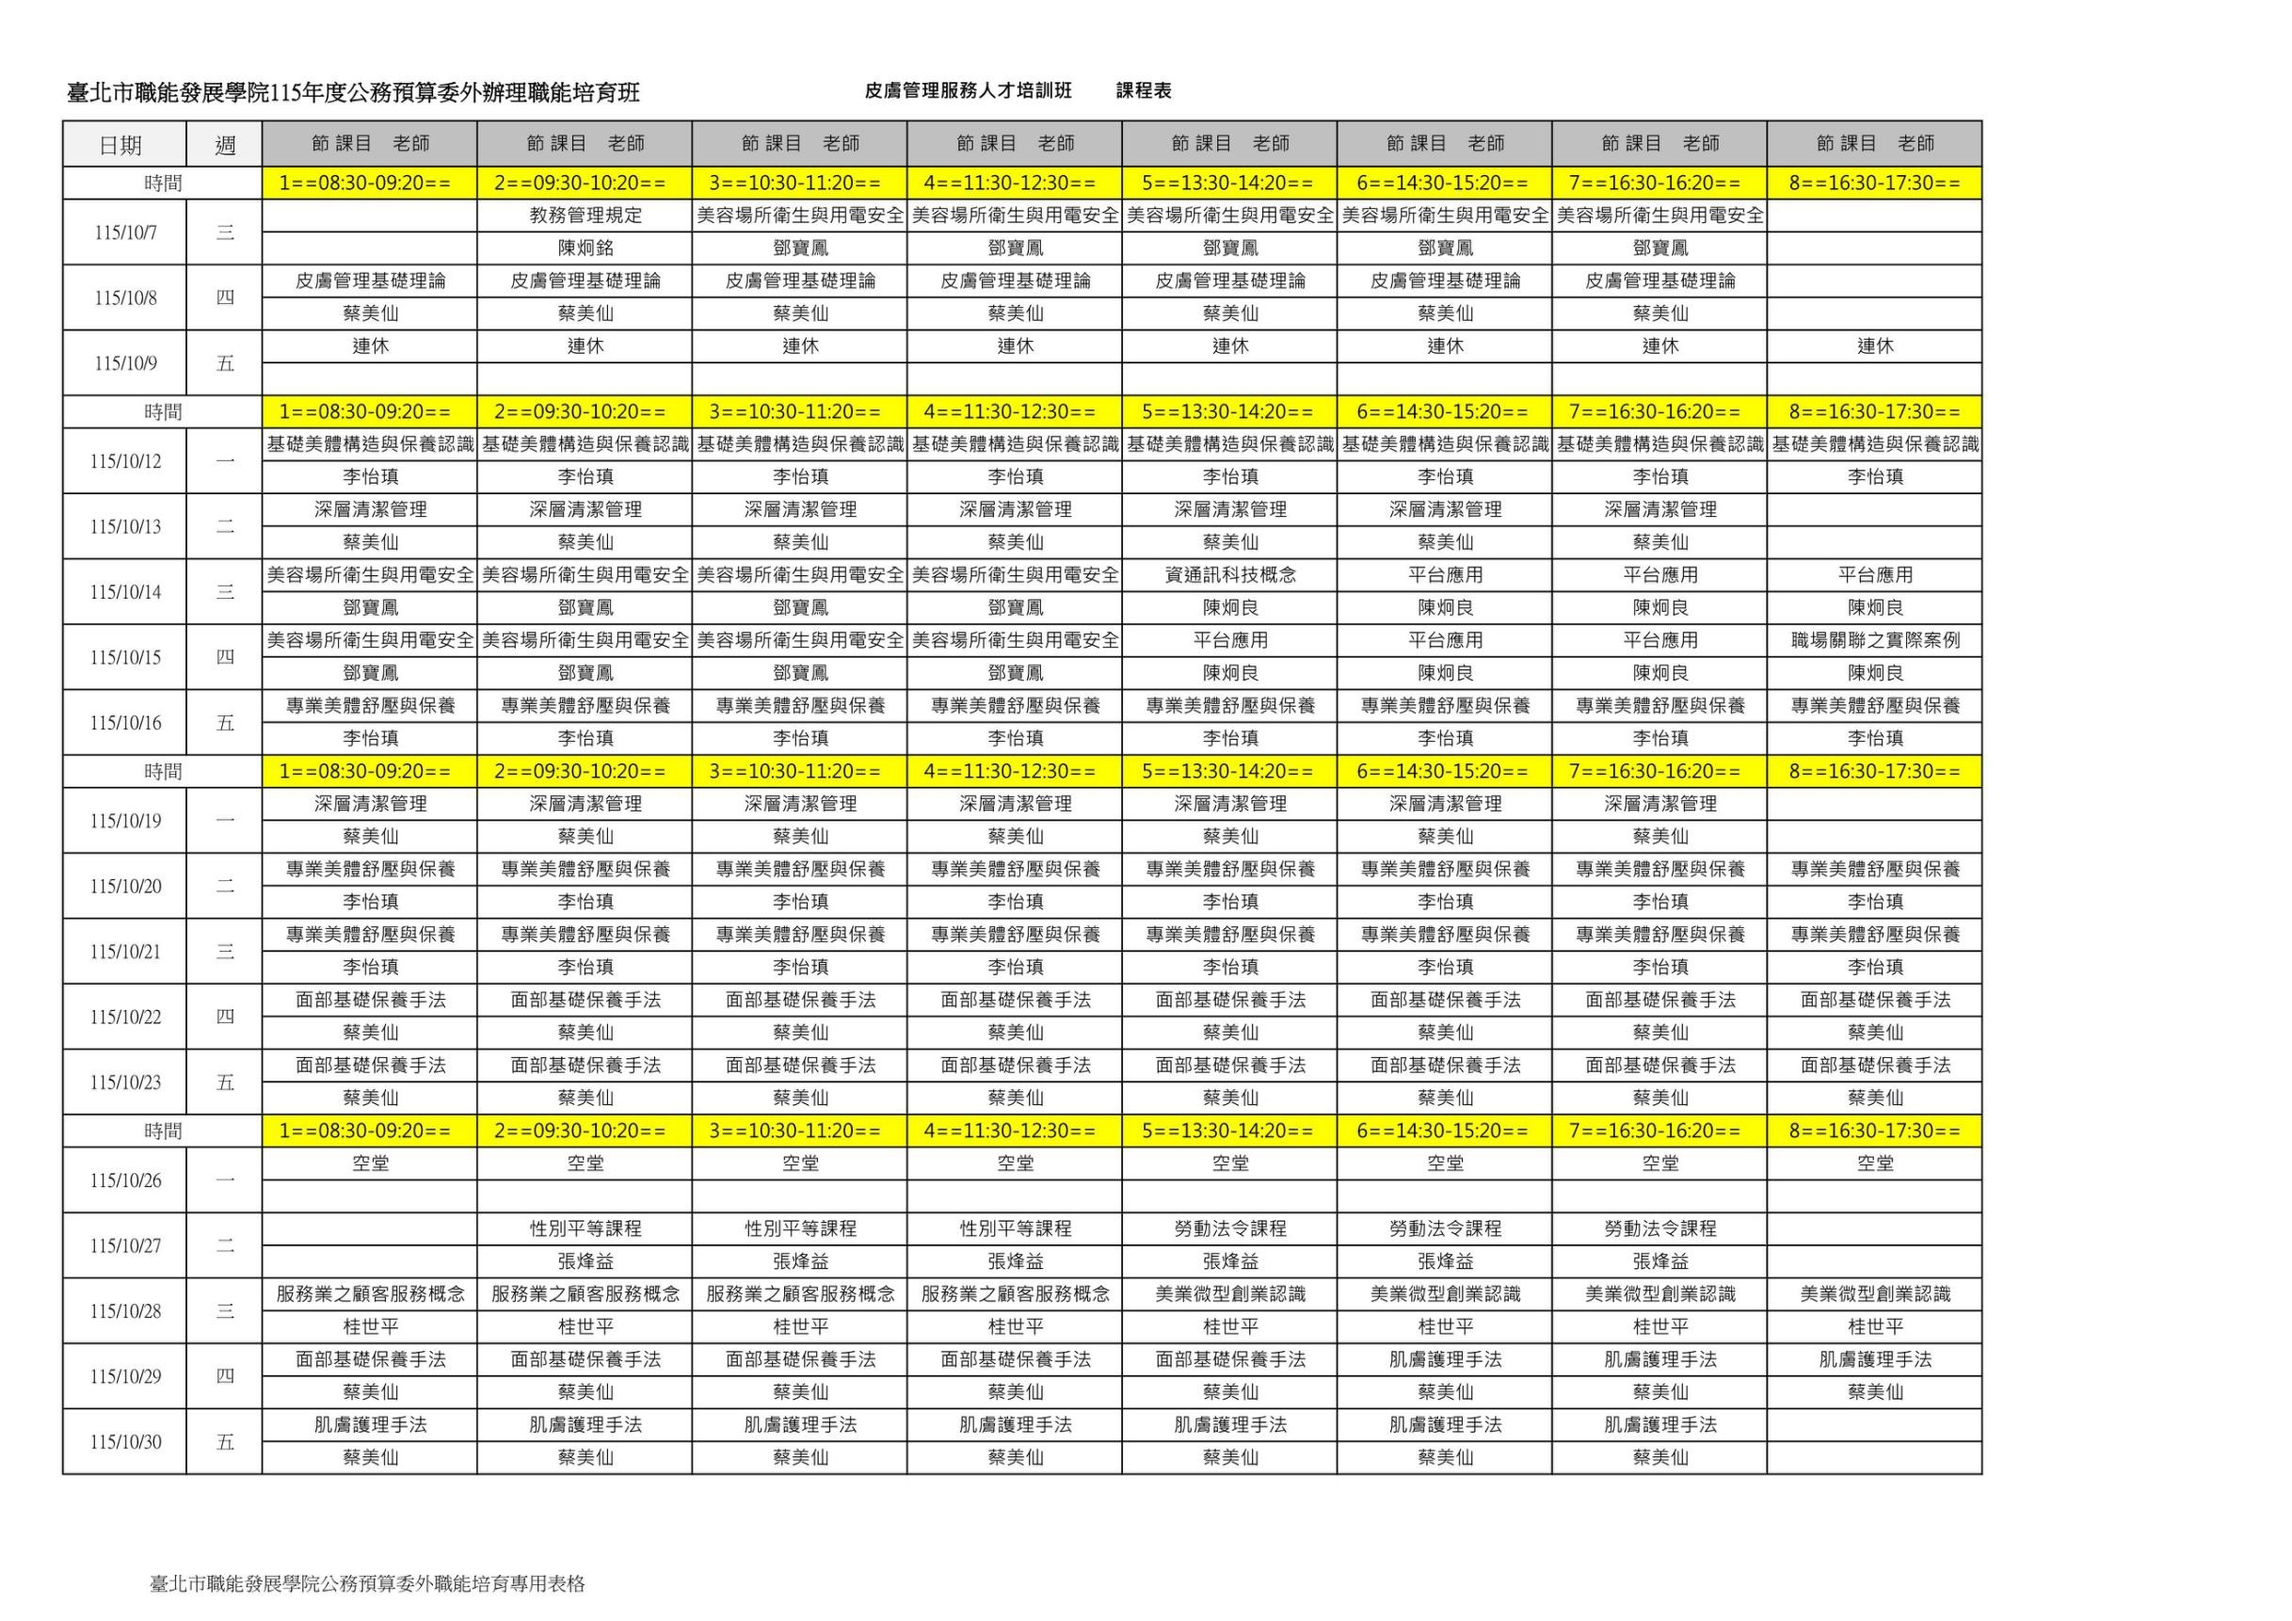
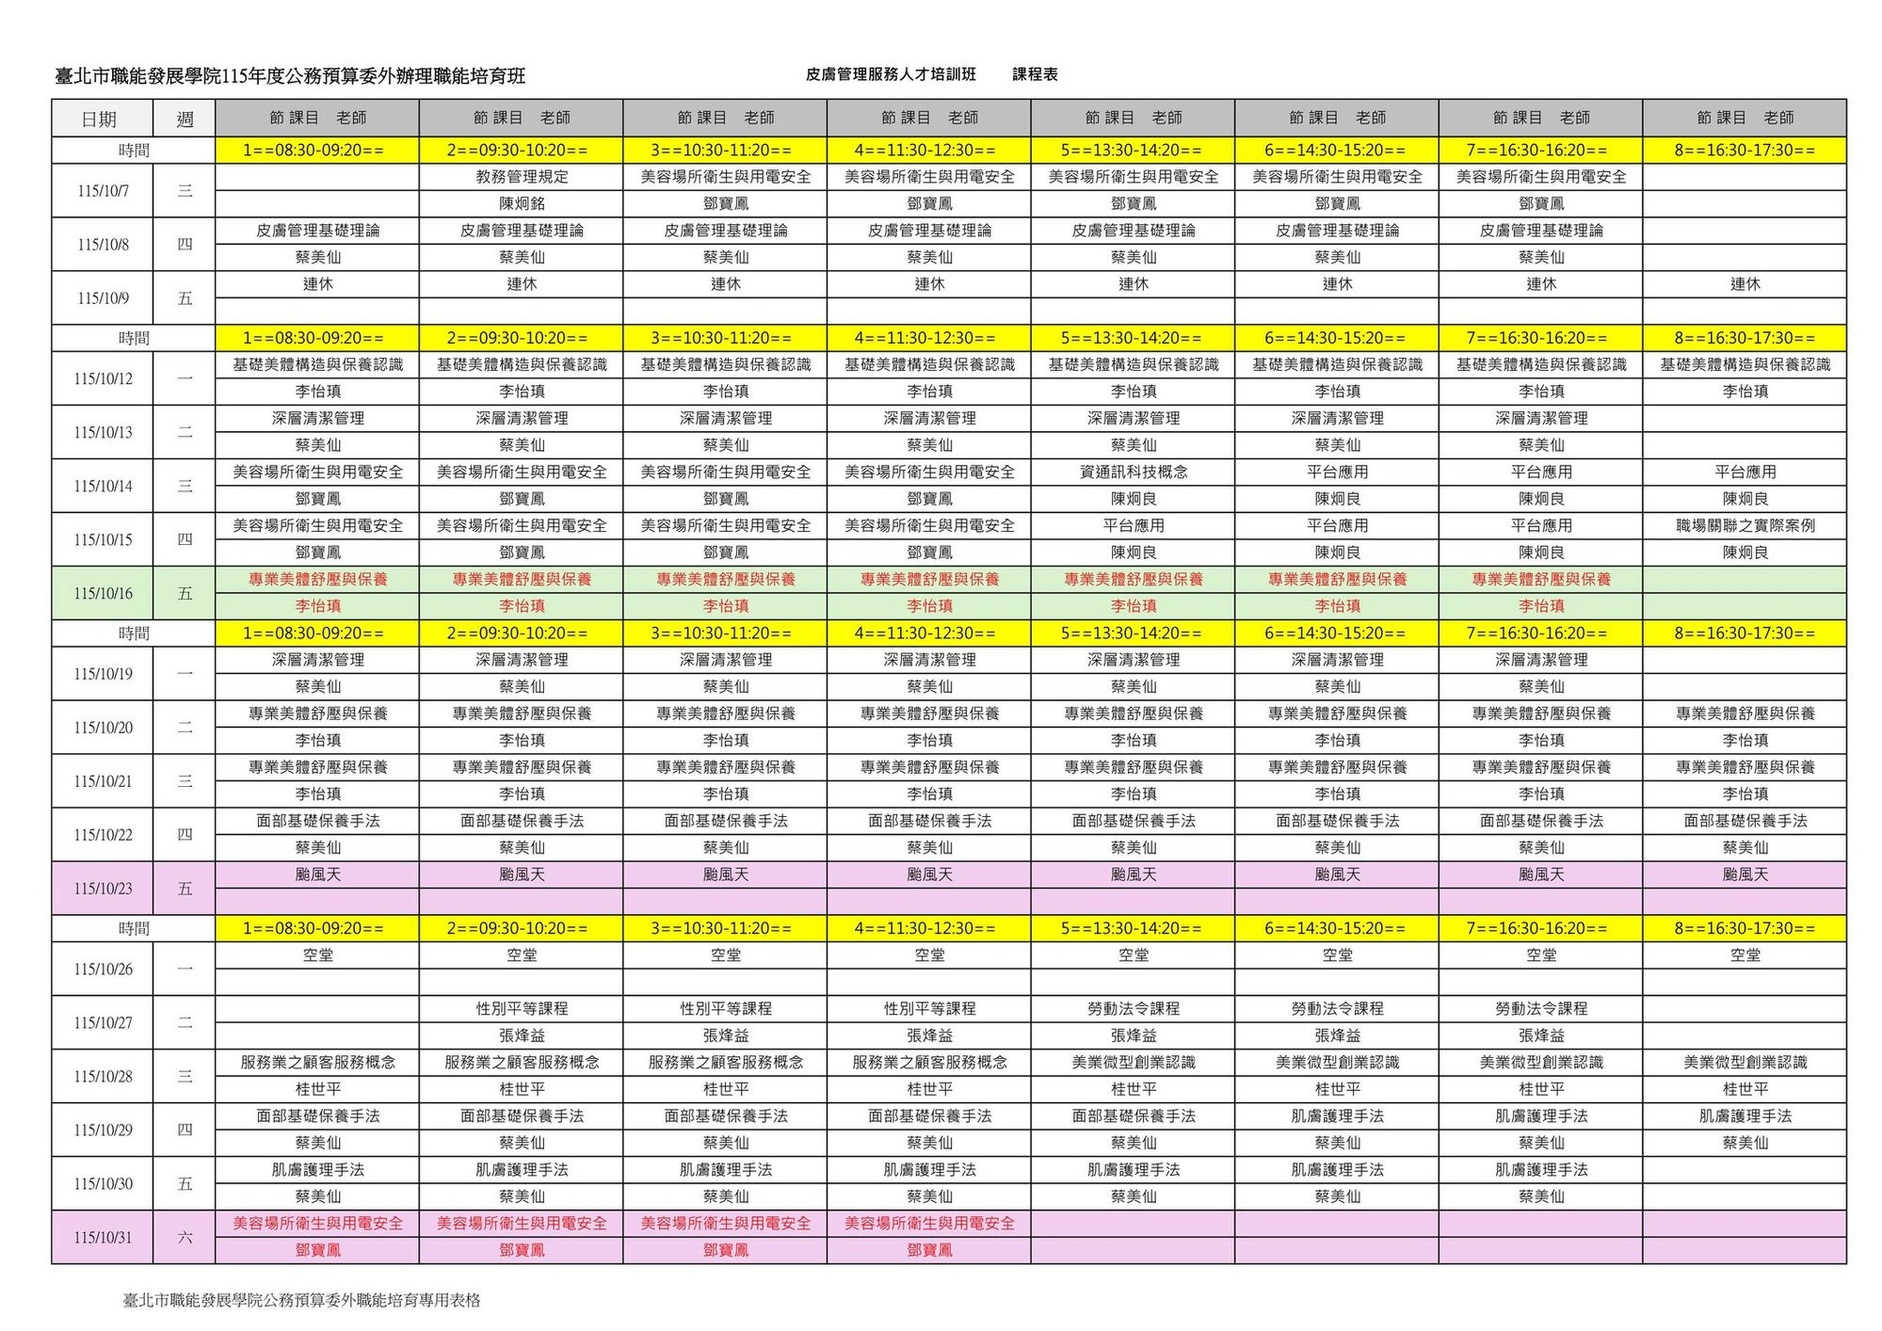
Update course schedule from revised 10/11 scans
- 10/16: 專業美體舒壓與保養 ends at period 7
- 10/23: 颱風天 (面部基礎保養手法 cancelled)
- 10/31 (六): add make-up 美容場所衛生與用電安全 periods 1–4
- 11/14 (六): now 專業美體舒壓與保養 periods 1–8
- 11/23: now 面部基礎保養手法 periods 1–8

diff --git a/schedule/index.html b/schedule/index.html
@@ -112,7 +112,7 @@ footer{margin-top:40px;font-size:13px;color:var(--muted);border-top:1px solid va
 <footer>進度條依現在時間計算已經上過的課堂分鐘數；術科指 <span id="pr"></span>，其餘（理論、法規、職場通識）都算學科。<br>資料來源：<code>data/schedule.json</code>，依原始課表整理。原表第 7 節印成「16:30–16:20」，這裡依前後節推為 15:30–16:20。</footer>
 </div>
 <script>
-const S = {"title":"皮膚管理服務人才培訓班 課程表","org":"臺北市職能發展學院 115 年度公務預算委外辦理職能培育班","practical":["專業美體舒壓與保養","各大膚質精緻管理","面部基礎保養手法","肌膚護理手法","深層清潔管理","美容儀器解析與使用","綜合演練"],"periods":[{"n":1,"start":"08:30","end":"09:20"},{"n":2,"start":"09:30","end":"10:20"},{"n":3,"start":"10:30","end":"11:20"},{"n":4,"start":"11:30","end":"12:30"},{"n":5,"start":"13:30","end":"14:20"},{"n":6,"start":"14:30","end":"15:20"},{"n":7,"start":"15:30","end":"16:20"},{"n":8,"start":"16:30","end":"17:30"}],"days":[{"date":"2026-10-07","roc":"115/10/07","weekday":"三","blocks":[{"from":2,"to":2,"subject":"教務管理規定","teacher":"陳炯銘"},{"from":3,"to":7,"subject":"美容場所衛生與用電安全","teacher":"鄧寶鳳"}]},{"date":"2026-10-08","roc":"115/10/08","weekday":"四","blocks":[{"from":1,"to":7,"subject":"皮膚管理基礎理論","teacher":"蔡美仙"}]},{"date":"2026-10-09","roc":"115/10/09","weekday":"五","off":"連休","blocks":[]},{"date":"2026-10-12","roc":"115/10/12","weekday":"一","blocks":[{"from":1,"to":8,"subject":"基礎美體構造與保養認識","teacher":"李怡瑱"}]},{"date":"2026-10-13","roc":"115/10/13","weekday":"二","blocks":[{"from":1,"to":7,"subject":"深層清潔管理","teacher":"蔡美仙"}]},{"date":"2026-10-14","roc":"115/10/14","weekday":"三","blocks":[{"from":1,"to":4,"subject":"美容場所衛生與用電安全","teacher":"鄧寶鳳"},{"from":5,"to":5,"subject":"資通訊科技概念","teacher":"陳炯良"},{"from":6,"to":8,"subject":"平台應用","teacher":"陳炯良"}]},{"date":"2026-10-15","roc":"115/10/15","weekday":"四","blocks":[{"from":1,"to":4,"subject":"美容場所衛生與用電安全","teacher":"鄧寶鳳"},{"from":5,"to":7,"subject":"平台應用","teacher":"陳炯良"},{"from":8,"to":8,"subject":"職場關聯之實際案例","teacher":"陳炯良"}]},{"date":"2026-10-16","roc":"115/10/16","weekday":"五","blocks":[{"from":1,"to":8,"subject":"專業美體舒壓與保養","teacher":"李怡瑱"}]},{"date":"2026-10-19","roc":"115/10/19","weekday":"一","blocks":[{"from":1,"to":7,"subject":"深層清潔管理","teacher":"蔡美仙"}]},{"date":"2026-10-20","roc":"115/10/20","weekday":"二","blocks":[{"from":1,"to":8,"subject":"專業美體舒壓與保養","teacher":"李怡瑱"}]},{"date":"2026-10-21","roc":"115/10/21","weekday":"三","blocks":[{"from":1,"to":8,"subject":"專業美體舒壓與保養","teacher":"李怡瑱"}]},{"date":"2026-10-22","roc":"115/10/22","weekday":"四","blocks":[{"from":1,"to":8,"subject":"面部基礎保養手法","teacher":"蔡美仙"}]},{"date":"2026-10-23","roc":"115/10/23","weekday":"五","blocks":[{"from":1,"to":8,"subject":"面部基礎保養手法","teacher":"蔡美仙"}]},{"date":"2026-10-26","roc":"115/10/26","weekday":"一","off":"空堂","blocks":[]},{"date":"2026-10-27","roc":"115/10/27","weekday":"二","blocks":[{"from":2,"to":4,"subject":"性別平等課程","teacher":"張烽益"},{"from":5,"to":7,"subject":"勞動法令課程","teacher":"張烽益"}]},{"date":"2026-10-28","roc":"115/10/28","weekday":"三","blocks":[{"from":1,"to":4,"subject":"服務業之顧客服務概念","teacher":"桂世平"},{"from":5,"to":8,"subject":"美業微型創業認識","teacher":"桂世平"}]},{"date":"2026-10-29","roc":"115/10/29","weekday":"四","blocks":[{"from":1,"to":5,"subject":"面部基礎保養手法","teacher":"蔡美仙"},{"from":6,"to":8,"subject":"肌膚護理手法","teacher":"蔡美仙"}]},{"date":"2026-10-30","roc":"115/10/30","weekday":"五","blocks":[{"from":1,"to":7,"subject":"肌膚護理手法","teacher":"蔡美仙"}]},{"date":"2026-11-02","roc":"115/11/02","weekday":"一","blocks":[{"from":1,"to":8,"subject":"肌膚護理手法","teacher":"蔡美仙"}]},{"date":"2026-11-03","roc":"115/11/03","weekday":"二","blocks":[{"from":1,"to":3,"subject":"肌膚護理手法","teacher":"蔡美仙"},{"from":4,"to":7,"subject":"各大膚質精緻管理","teacher":"蔡美仙"}]},{"date":"2026-11-04","roc":"115/11/04","weekday":"三","blocks":[{"from":1,"to":8,"subject":"專業美體舒壓與保養","teacher":"李怡瑱"}]},{"date":"2026-11-05","roc":"115/11/05","weekday":"四","blocks":[{"from":1,"to":8,"subject":"各大膚質精緻管理","teacher":"蔡美仙"}]},{"date":"2026-11-06","roc":"115/11/06","weekday":"五","blocks":[{"from":1,"to":8,"subject":"專業美體舒壓與保養","teacher":"李怡瑱"}]},{"date":"2026-11-09","roc":"115/11/09","weekday":"一","blocks":[{"from":1,"to":8,"subject":"專業美體舒壓與保養","teacher":"李怡瑱"}]},{"date":"2026-11-10","roc":"115/11/10","weekday":"二","blocks":[{"from":1,"to":8,"subject":"各大膚質精緻管理","teacher":"蔡美仙"}]},{"date":"2026-11-11","roc":"115/11/11","weekday":"三","blocks":[{"from":1,"to":8,"subject":"專業美體舒壓與保養","teacher":"李怡瑱"}]},{"date":"2026-11-12","roc":"115/11/12","weekday":"四","off":"空堂","blocks":[]},{"date":"2026-11-13","roc":"115/11/13","weekday":"五","off":"空堂","blocks":[]},{"date":"2026-11-14","roc":"115/11/14","weekday":"六","blocks":[{"from":1,"to":4,"subject":"美容場所衛生與用電安全","teacher":"鄧寶鳳"}]},{"date":"2026-11-16","roc":"115/11/16","weekday":"一","blocks":[{"from":1,"to":7,"subject":"科技與皮膚基礎管理流程","teacher":"鄧寶鳳"}]},{"date":"2026-11-17","roc":"115/11/17","weekday":"二","blocks":[{"from":1,"to":8,"subject":"美容儀器解析與使用","teacher":"鄧寶鳳"}]},{"date":"2026-11-18","roc":"115/11/18","weekday":"三","blocks":[{"from":1,"to":4,"subject":"美容場所衛生與用電安全","teacher":"鄧寶鳳"},{"from":5,"to":8,"subject":"美容儀器解析與使用","teacher":"鄧寶鳳"}]},{"date":"2026-11-19","roc":"115/11/19","weekday":"四","blocks":[{"from":1,"to":3,"subject":"就業市場趨勢說明課程","teacher":"陳炯銘"},{"from":4,"to":4,"subject":"求職技巧課程","teacher":"陳炯銘"},{"from":5,"to":6,"subject":"職涯規劃課程","teacher":"陳炯銘"},{"from":7,"to":8,"subject":"美容儀器解析與使用","teacher":"鄧寶鳳"}]},{"date":"2026-11-20","roc":"115/11/20","weekday":"五","blocks":[{"from":1,"to":8,"subject":"各大膚質精緻管理","teacher":"蔡美仙"}]},{"date":"2026-11-23","roc":"115/11/23","weekday":"一","blocks":[{"from":1,"to":7,"subject":"專業美體舒壓與保養","teacher":"李怡瑱"}]},{"date":"2026-11-24","roc":"115/11/24","weekday":"二","blocks":[{"from":1,"to":7,"subject":"綜合演練","teacher":"鄧寶鳳"}]}]};
+const S = {"title":"皮膚管理服務人才培訓班 課程表","org":"臺北市職能發展學院 115 年度公務預算委外辦理職能培育班","practical":["專業美體舒壓與保養","各大膚質精緻管理","面部基礎保養手法","肌膚護理手法","深層清潔管理","美容儀器解析與使用","綜合演練"],"periods":[{"n":1,"start":"08:30","end":"09:20"},{"n":2,"start":"09:30","end":"10:20"},{"n":3,"start":"10:30","end":"11:20"},{"n":4,"start":"11:30","end":"12:30"},{"n":5,"start":"13:30","end":"14:20"},{"n":6,"start":"14:30","end":"15:20"},{"n":7,"start":"15:30","end":"16:20"},{"n":8,"start":"16:30","end":"17:30"}],"days":[{"date":"2026-10-07","roc":"115/10/07","weekday":"三","blocks":[{"from":2,"to":2,"subject":"教務管理規定","teacher":"陳炯銘"},{"from":3,"to":7,"subject":"美容場所衛生與用電安全","teacher":"鄧寶鳳"}]},{"date":"2026-10-08","roc":"115/10/08","weekday":"四","blocks":[{"from":1,"to":7,"subject":"皮膚管理基礎理論","teacher":"蔡美仙"}]},{"date":"2026-10-09","roc":"115/10/09","weekday":"五","off":"連休","blocks":[]},{"date":"2026-10-12","roc":"115/10/12","weekday":"一","blocks":[{"from":1,"to":8,"subject":"基礎美體構造與保養認識","teacher":"李怡瑱"}]},{"date":"2026-10-13","roc":"115/10/13","weekday":"二","blocks":[{"from":1,"to":7,"subject":"深層清潔管理","teacher":"蔡美仙"}]},{"date":"2026-10-14","roc":"115/10/14","weekday":"三","blocks":[{"from":1,"to":4,"subject":"美容場所衛生與用電安全","teacher":"鄧寶鳳"},{"from":5,"to":5,"subject":"資通訊科技概念","teacher":"陳炯良"},{"from":6,"to":8,"subject":"平台應用","teacher":"陳炯良"}]},{"date":"2026-10-15","roc":"115/10/15","weekday":"四","blocks":[{"from":1,"to":4,"subject":"美容場所衛生與用電安全","teacher":"鄧寶鳳"},{"from":5,"to":7,"subject":"平台應用","teacher":"陳炯良"},{"from":8,"to":8,"subject":"職場關聯之實際案例","teacher":"陳炯良"}]},{"date":"2026-10-16","roc":"115/10/16","weekday":"五","blocks":[{"from":1,"to":7,"subject":"專業美體舒壓與保養","teacher":"李怡瑱"}]},{"date":"2026-10-19","roc":"115/10/19","weekday":"一","blocks":[{"from":1,"to":7,"subject":"深層清潔管理","teacher":"蔡美仙"}]},{"date":"2026-10-20","roc":"115/10/20","weekday":"二","blocks":[{"from":1,"to":8,"subject":"專業美體舒壓與保養","teacher":"李怡瑱"}]},{"date":"2026-10-21","roc":"115/10/21","weekday":"三","blocks":[{"from":1,"to":8,"subject":"專業美體舒壓與保養","teacher":"李怡瑱"}]},{"date":"2026-10-22","roc":"115/10/22","weekday":"四","blocks":[{"from":1,"to":8,"subject":"面部基礎保養手法","teacher":"蔡美仙"}]},{"date":"2026-10-23","roc":"115/10/23","weekday":"五","off":"颱風天","blocks":[]},{"date":"2026-10-26","roc":"115/10/26","weekday":"一","off":"空堂","blocks":[]},{"date":"2026-10-27","roc":"115/10/27","weekday":"二","blocks":[{"from":2,"to":4,"subject":"性別平等課程","teacher":"張烽益"},{"from":5,"to":7,"subject":"勞動法令課程","teacher":"張烽益"}]},{"date":"2026-10-28","roc":"115/10/28","weekday":"三","blocks":[{"from":1,"to":4,"subject":"服務業之顧客服務概念","teacher":"桂世平"},{"from":5,"to":8,"subject":"美業微型創業認識","teacher":"桂世平"}]},{"date":"2026-10-29","roc":"115/10/29","weekday":"四","blocks":[{"from":1,"to":5,"subject":"面部基礎保養手法","teacher":"蔡美仙"},{"from":6,"to":8,"subject":"肌膚護理手法","teacher":"蔡美仙"}]},{"date":"2026-10-30","roc":"115/10/30","weekday":"五","blocks":[{"from":1,"to":7,"subject":"肌膚護理手法","teacher":"蔡美仙"}]},{"date":"2026-10-31","roc":"115/10/31","weekday":"六","blocks":[{"from":1,"to":4,"subject":"美容場所衛生與用電安全","teacher":"鄧寶鳳"}]},{"date":"2026-11-02","roc":"115/11/02","weekday":"一","blocks":[{"from":1,"to":8,"subject":"肌膚護理手法","teacher":"蔡美仙"}]},{"date":"2026-11-03","roc":"115/11/03","weekday":"二","blocks":[{"from":1,"to":3,"subject":"肌膚護理手法","teacher":"蔡美仙"},{"from":4,"to":7,"subject":"各大膚質精緻管理","teacher":"蔡美仙"}]},{"date":"2026-11-04","roc":"115/11/04","weekday":"三","blocks":[{"from":1,"to":8,"subject":"專業美體舒壓與保養","teacher":"李怡瑱"}]},{"date":"2026-11-05","roc":"115/11/05","weekday":"四","blocks":[{"from":1,"to":8,"subject":"各大膚質精緻管理","teacher":"蔡美仙"}]},{"date":"2026-11-06","roc":"115/11/06","weekday":"五","blocks":[{"from":1,"to":8,"subject":"專業美體舒壓與保養","teacher":"李怡瑱"}]},{"date":"2026-11-09","roc":"115/11/09","weekday":"一","blocks":[{"from":1,"to":8,"subject":"專業美體舒壓與保養","teacher":"李怡瑱"}]},{"date":"2026-11-10","roc":"115/11/10","weekday":"二","blocks":[{"from":1,"to":8,"subject":"各大膚質精緻管理","teacher":"蔡美仙"}]},{"date":"2026-11-11","roc":"115/11/11","weekday":"三","blocks":[{"from":1,"to":8,"subject":"專業美體舒壓與保養","teacher":"李怡瑱"}]},{"date":"2026-11-12","roc":"115/11/12","weekday":"四","off":"空堂","blocks":[]},{"date":"2026-11-13","roc":"115/11/13","weekday":"五","off":"空堂","blocks":[]},{"date":"2026-11-14","roc":"115/11/14","weekday":"六","blocks":[{"from":1,"to":8,"subject":"專業美體舒壓與保養","teacher":"李怡瑱"}]},{"date":"2026-11-16","roc":"115/11/16","weekday":"一","blocks":[{"from":1,"to":7,"subject":"科技與皮膚基礎管理流程","teacher":"鄧寶鳳"}]},{"date":"2026-11-17","roc":"115/11/17","weekday":"二","blocks":[{"from":1,"to":8,"subject":"美容儀器解析與使用","teacher":"鄧寶鳳"}]},{"date":"2026-11-18","roc":"115/11/18","weekday":"三","blocks":[{"from":1,"to":4,"subject":"美容場所衛生與用電安全","teacher":"鄧寶鳳"},{"from":5,"to":8,"subject":"美容儀器解析與使用","teacher":"鄧寶鳳"}]},{"date":"2026-11-19","roc":"115/11/19","weekday":"四","blocks":[{"from":1,"to":3,"subject":"就業市場趨勢說明課程","teacher":"陳炯銘"},{"from":4,"to":4,"subject":"求職技巧課程","teacher":"陳炯銘"},{"from":5,"to":6,"subject":"職涯規劃課程","teacher":"陳炯銘"},{"from":7,"to":8,"subject":"美容儀器解析與使用","teacher":"鄧寶鳳"}]},{"date":"2026-11-20","roc":"115/11/20","weekday":"五","blocks":[{"from":1,"to":8,"subject":"各大膚質精緻管理","teacher":"蔡美仙"}]},{"date":"2026-11-23","roc":"115/11/23","weekday":"一","blocks":[{"from":1,"to":8,"subject":"面部基礎保養手法","teacher":"蔡美仙"}]},{"date":"2026-11-24","roc":"115/11/24","weekday":"二","blocks":[{"from":1,"to":7,"subject":"綜合演練","teacher":"鄧寶鳳"}]}]};
 const P = Object.fromEntries(S.periods.map(p => [p.n, p]));
 const $ = id => document.getElementById(id);
 const pad = n => String(n).padStart(2, '0');

diff --git a/README.md b/README.md
@@ -15,7 +15,7 @@
 
 ```
 data/questions.json   不重複題庫（236 題，原 262 題刪去 26 題重複／同考點題目）
-data/schedule.json    培訓班課表（36 天、240 節），連續同課目的節次合併成一段 from–to
+data/schedule.json    培訓班課表（37 天、240 節），連續同課目的節次合併成一段 from–to
 src/handout.html      講義模板，{{SKIN}} 等佔位會換成 tools/svgs.py 產生的圖
 src/quiz.html         測驗模板，{{DATA}} 會換成題庫
 src/notes.html        我的疑問頁，細胞圖由 tools/cells.py 產生
